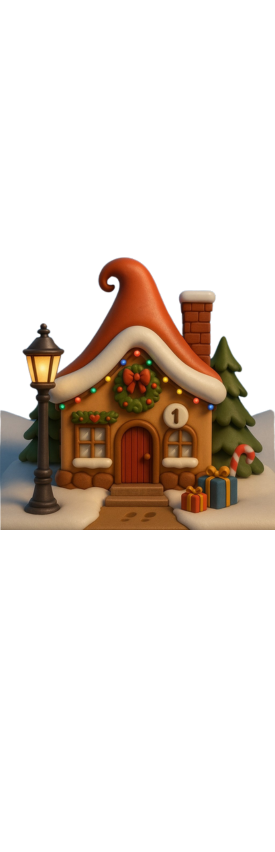
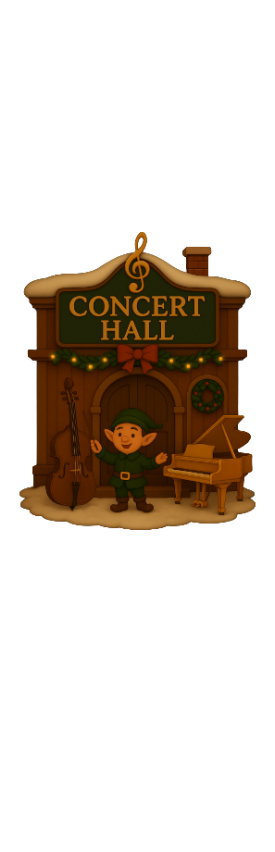
day15

Changed region(s): [[0.0, 0.2746, 1.0, 0.6408]]

diff --git a/tage/gamey.js b/tage/gamey.js
@@ -246,7 +246,41 @@ function checkAnswer(day) {
       "23",
       23
     ];
-  }
+  } else if (day == 151) {
+  correctAnswers = [
+    "leise rieselt der schnee",
+    "leise rieselt schnee",
+    "leise rieselt der sne",
+    "leise rieselt der shnee",
+    "leise rieselt der schneee",
+    "leise rieselt",
+    "rieselt der schnee",
+    "leise rieselt der schnee lied"
+  ];
+} else if (day == 152) {
+  correctAnswers = [
+    "fröhliche weihnacht",
+    "fröhliche weihnachten",
+    "fröhliche weihnacht überall",
+    "fröhliche weihnachten überall",
+    "fröliche weihnacht",
+    "froehliche weihnacht",
+    "fröhliche weihnacht ueberall",
+    "fröhliche weihnacht lied",
+    "froehliche weihnachten"
+  ];
+} else if (day == 15) {
+  correctAnswers = [
+    "stille nacht",
+    "stille nacht heilige nacht",
+    "stille nacht heilige nacht lied",
+    "stille nacht heilge nacht",
+    "stille nacht heillige nacht",
+    "stille nacht heilige nach",
+    "stille nacht heilige nacht deutsch",
+    "stille nacht song"
+  ];
+}
 
   if (correctAnswers.includes(userAnswer)) {
     // Zwischensteps (31, 32, 33, 34)
@@ -302,7 +336,33 @@ function checkAnswer(day) {
       setTimeout(() => {
         window.location.href = `template.html?tag=${nextStep}`;
       }, 600);
-    } else {
+    } else if ([151, 152].includes(day)) {
+      // Nächsten Step berechnen
+      const nextStep = day + 1;
+
+      // Konfetti-Effekt
+      confetti({
+        particleCount: 1000,
+        spread: 110,
+        startVelocity: 50,
+        scalar: 1.5,
+        gravity: 0.6,
+        origin: { y: 1.3 },
+        colors: [
+          "#962a2a",
+          "#E24A39",
+          "#065308",
+          "#2E8B33",
+          "#FFD530",
+          "#F8F4EF",
+        ],
+        zIndex: 9999,
+      });
+
+      setTimeout(() => {
+        window.location.href = `template.html?tag=${nextStep}`;
+      }, 600);
+    }else {
       // Finale Lösung
       rightSolution(day);
     }

diff --git a/tage/content/15.html b/tage/content/15.html
@@ -1,6 +1,8 @@
 <p class="question">
-  Im Tourismusbüro des Weihnachtsdorfes ging folgende Nachricht des Hackers ein.
+  In der Konzerthalle hat der Hacker den Drucker durcheinander gebracht und nun stehen keine Titel auf den Notenblättern.
+  Kannst du die richtigen Titel den Liedern zuordnen?
 </p>
 
-<button class="solution-button" onclick="rightSolution(15)">Lösung!</button>
-<button class="solution-button" onclick="wrongSolution()">Keine Lösung!</button>
+<a href="template.html?tag=151" class="btn">
+    Start
+  </a>

diff --git a/tage/content/16.html b/tage/content/16.html
@@ -1,6 +1,8 @@
 <p class="question">
-  Im Tourismusbüro des Weihnachtsdorfes ging folgende Nachricht des Hackers ein.
+  In der Konzerthalle hat der Hacker den Drucker durcheinander gebracht und nun stehen keine Titel auf den Notenblättern.
+  Kannst du die richtigen Titel den Liedern zuordnen?
 </p>
 
-<button class="solution-button" onclick="rightSolution(16)">Lösung!</button>
-<button class="solution-button" onclick="wrongSolution()">Keine Lösung!</button>
+<a href="template.html?tag=61" class="btn">
+    Start
+  </a>

diff --git a/tage/content/152.html b/tage/content/152.html
@@ -1,0 +1,10 @@
+<p class="question">
+  Welches Lied ist das? <br><br>
+</p>
+<div class="question">
+  <img class="small-img" src="../assets/day15/fröhlicheweihnacht.png">
+</div>
+
+
+<input id="answerInput" class="answer-input" type="text" placeholder="Welches Lied ist das?">
+<button class="solution-button" onclick="checkAnswer(152)">Antwort prüfen</button>

diff --git a/tage/content/151.html b/tage/content/151.html
@@ -1,0 +1,10 @@
+<p class="question">
+  Welches Lied ist das? <br><br>
+</p>
+<div class="question">
+  <img class="small-img" src="../assets/day15/leiseschnee.png">
+</div>
+
+
+<input id="answerInput" class="answer-input" type="text" placeholder="Welches Lied ist das?">
+<button class="solution-button" onclick="checkAnswer(151)">Antwort prüfen</button>

diff --git a/style.css b/style.css
@@ -217,13 +217,13 @@ footer, nav{
   color: var(--muted);
   background: var(--color-accent);
   border-radius:16px;
-    box-shadow:var(--elev-1);
+  box-shadow:var(--elev-1);
   backdrop-filter: blur(3px) saturate(1.05);
 }
 
 .question img{
   width:100%;
-      border-radius:16px;
+  border-radius:16px;
 }
 
 .wunschzettel-paper {

diff --git a/tage/content/153.html b/tage/content/153.html
@@ -1,0 +1,7 @@
+<div class="question">
+  <img class="small-img" src="../assets/day15/stillenacht.png">
+</div>
+
+
+<input id="answerInput" class="answer-input" type="text" placeholder="Welches Lied ist das?">
+<button class="solution-button" onclick="checkAnswer(15)">Antwort prüfen</button>
